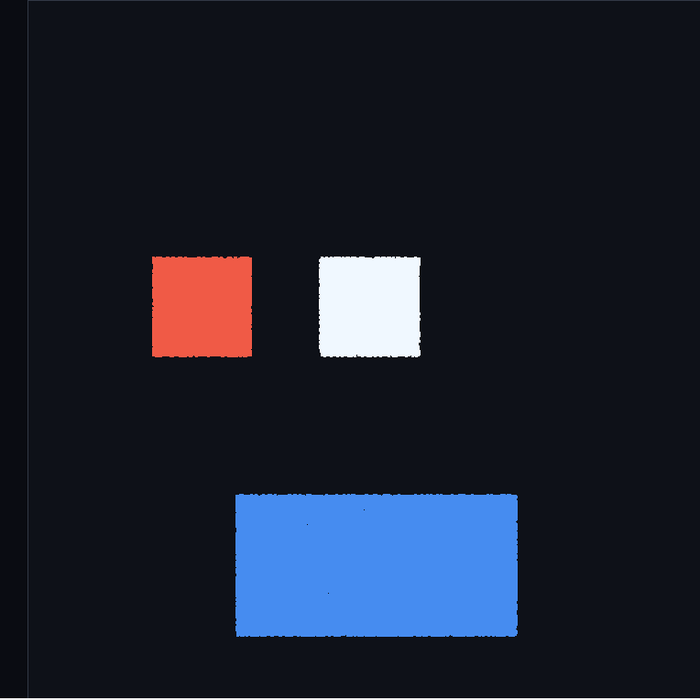
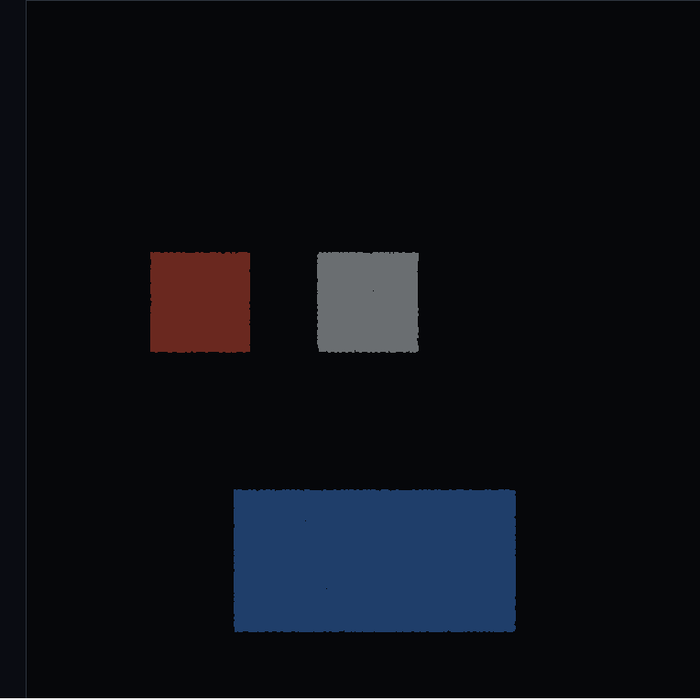
perf(mpm): fuse the grid update into g2p, u8 framebuffer, finer grain range
Two optimisations, both checked against the same acceptance suite before keeping them. The grid normalisation, gravity and boundary clamp used to be their own kernel between p2g and g2p; that costs a launch per substep and at 128 grid the launch dominates the work. Each particle now normalises the nine cells it reads, which is the same arithmetic recomputed redundantly - the whole verification suite still passes identically (water spans 0.912 with the surface at 0.202 and flatness 0.031, snow plasticity reaches Jp 0.771, the mixed scene stays finite and conserves its count). Physics went from 32 ms to 22 ms per frame. The framebuffer is u8 instead of float32, which cuts the per-frame device-to-host copy from 6.8 MB to 1.7 MB and drops draw from 7-9 ms to 3. The grain slider now starts at 0.05x instead of 0.5x, and there is a step-size selector exposing the reference's own dt_scale. Measured end to end: 128 grid 24 ms a frame (42 fps) against 53 before, pouring a solid 28 ms worst frame against 108, 384 grid with 70308 particles 30 ms and still stable.

diff --git a/apps/Physics/MPM2D.py b/apps/Physics/MPM2D.py
@@ -53,8 +53,8 @@ class MPM2D:
         self.grid_v = ti.Vector.field(dim, real, (self.gsize, self.gsize))
         self.grid_m = ti.field(real, (self.gsize, self.gsize))
 
-        self.img = ti.Vector.field(3, real, (RENDER_RES, RENDER_RES))
-        self.blur_tmp = ti.Vector.field(3, real, (RENDER_RES, RENDER_RES))
+        self.img = ti.Vector.field(3, ti.u8, (RENDER_RES, RENDER_RES))
+        self.blur_tmp = ti.Vector.field(3, ti.u8, (RENDER_RES, RENDER_RES))
 
         self.par = ti.Vector.field(4, real, shape=())   # dx, inv_dx, p_vol, p_mass
         self.res_cur = ti.field(ti.i32, shape=())
@@ -185,6 +185,7 @@ class MPM2D:
             par = self.par[None]
             dx = par[0]
             inv_dx = par[1]
+            res = self.res_cur[None]
             for p in range(self.n_particles[None]):
                 base = ti.cast(ti.floor(self.x[p] * inv_dx - 0.5), ti.i32)
                 fx = self.x[p] * inv_dx - ti.cast(base, real)
@@ -198,6 +199,19 @@ class MPM2D:
                     nb = base + ti.Vector([i, j]) + padding
                     if 0 <= nb[0] < gsize and 0 <= nb[1] < gsize:
                         g_v = self.grid_v[nb]
+                        m = self.grid_m[nb]
+                        if m > 0.0:
+                            g_v = (1.0 / m) * g_v + dt * ti.Vector([0.0, GRAVITY_Y])
+                            xi = nb[0] - padding
+                            yj = nb[1] - padding
+                            if xi < padding and g_v[0] < 0.0:
+                                g_v[0] = 0.0
+                            if xi >= res - padding and g_v[0] > 0.0:
+                                g_v[0] = 0.0
+                            if yj < padding and g_v[1] < 0.0:
+                                g_v[1] = 0.0
+                            if yj >= res - padding and g_v[1] > 0.0:
+                                g_v[1] = 0.0
                         weight = w[i][0] * w[j][1]
                         new_v += weight * g_v
                         new_C += 4 * inv_dx * weight * g_v.outer_product(dpos)
@@ -229,19 +243,19 @@ class MPM2D:
         def render(radius: ti.i32):
             rres = RENDER_RES
             for i, j in self.img:
-                self.img[i, j] = ti.Vector([14.0, 17.0, 24.0])
+                self.img[i, j] = ti.Vector([14, 17, 24], ti.u8)
             for p in range(self.n_particles[None]):
                 px = self.x[p][0] * rres
                 py = (1.0 - self.x[p][1]) * rres
-                col = ti.Vector([235.0, 235.0, 240.0])
+                col = ti.Vector([235, 235, 240], ti.u8)
                 if self.material[p] == MATERIAL_WATER:
-                    col = ti.Vector([70.0, 140.0, 240.0])
+                    col = ti.Vector([70, 140, 240], ti.u8)
                 elif self.material[p] == MATERIAL_ELASTIC:
-                    col = ti.Vector([240.0, 90.0, 70.0])
+                    col = ti.Vector([240, 90, 70], ti.u8)
                 elif self.material[p] == MATERIAL_SNOW:
-                    col = ti.Vector([240.0, 248.0, 255.0])
+                    col = ti.Vector([240, 248, 255], ti.u8)
                 elif self.material[p] == MATERIAL_SAND:
-                    col = ti.Vector([220.0, 190.0, 110.0])
+                    col = ti.Vector([220, 190, 110], ti.u8)
                 ix = ti.cast(px, ti.i32)
                 iy = ti.cast(py, ti.i32)
                 for di in range(-radius, radius + 1):
@@ -256,14 +270,12 @@ class MPM2D:
         def blur():
             rres = RENDER_RES
             for i, j in self.img:
-                acc = self.img[i, j] * 4.0
-                cnt = 4.0
+                acc = ti.Vector([0, 0, 0], ti.i32) + self.img[i, j].cast(ti.i32) * 4
                 for di, dj in ti.static(ti.ndrange(-1, 2)):
                     ii = ti.min(ti.max(i + di, 0), rres - 1)
                     jj = ti.min(ti.max(j + dj, 0), rres - 1)
-                    acc += self.img[ii, jj]
-                    cnt += 1.0
-                self.blur_tmp[i, j] = acc / cnt
+                    acc += self.img[ii, jj].cast(ti.i32)
+                self.blur_tmp[i, j] = (acc / 9).cast(ti.u8)
             for i, j in self.img:
                 self.img[i, j] = self.blur_tmp[i, j]
 
@@ -309,7 +321,11 @@ class MPM2D:
         return num_new
 
     def step(self, frame_dt):
-        vmax = float(self._max_velocity())
+        self._vmax_age = getattr(self, "_vmax_age", 99) + 1
+        if self._vmax_age >= 6:                      # 每 6 帧才回读一次，省掉每帧同步
+            self._vmax = float(self._max_velocity())
+            self._vmax_age = 0
+        vmax = getattr(self, "_vmax", 0.0)
         cfl_dt = self.allowed_cfl * self.dx / (vmax + 1e-6)
         dt = min(self.default_dt * self.dt_scale, cfl_dt)
         # 子步数受上限约束，但 dt 绝不能再被放大（那样会越过 CFL 直接炸）
@@ -317,7 +333,6 @@ class MPM2D:
         dt = min(dt, frame_dt / substeps)
         for _ in range(substeps):
             self._p2g(dt)
-            self._grid_op(dt)
             self._g2p(dt)
         self._sim_time = substeps * dt
         return substeps
@@ -332,7 +347,7 @@ class MPM2D:
             radius = self.particle_radius(grain)
         self._render(radius)
         self._blur()
-        return np.clip(self.img.to_numpy(), 0, 255).astype(np.uint8)
+        return self.img.to_numpy()
 
     def particle_info(self):
         n = int(self.n_particles[None])
@@ -509,10 +524,17 @@ class MPMApp(QMainWindow):
         f0.addRow("采样", self.den_box)
         self.grain = 1.0
         self.grain_slider = QSlider(Qt.Horizontal)
-        self.grain_slider.setRange(50, 400)
+        self.grain_slider.setRange(5, 400)
         self.grain_slider.setValue(100)
         self.grain_slider.valueChanged.connect(self.on_grain)
         f0.addRow("颗粒度", self.grain_slider)
+        self.dts_box = QComboBox()
+        for name, val in (("1× (参考)", 1.0), ("2×", 2.0), ("4×", 4.0)):
+            self.dts_box.addItem(name, val)
+        self.dts_box.setCurrentIndex(0)
+        self.dts_box.currentIndexChanged.connect(
+            lambda i: setattr(self.sim, "dt_scale", self.dts_box.itemData(i)))
+        f0.addRow("步长", self.dts_box)
         self.spd_box = QComboBox()
         for name, val in (("0.5×", 1 / 480), ("1×", 1 / 240), ("2×", 1 / 120)):
             self.spd_box.addItem(name, val)
